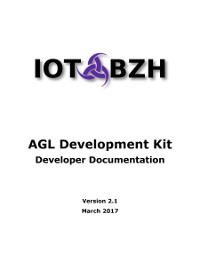
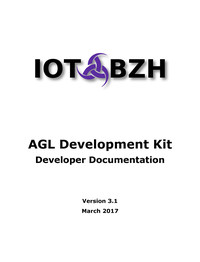
sdk-devkit: review, change version, update intro

diff --git a/sdk-devkit/docs/README.md b/sdk-devkit/docs/README.md
@@ -1,9 +1,14 @@
 # Introduction
 
-AGL Development Kit allows developers to rebuild a complete bootable image
-from source code.
-It uses Yocto/Poky version 2.x with latest version of Renesas BSP and enables
-low-level development of drivers and system services.
+AGL Development Kit allows developers and integrators to rebuild complete bootable images
+from source code, as well as developing new applications for AGL.
+
+It leverages Docker capabilities to propose a unified environment suitable for most development tasks:
+* compatible with AGL 3.x (based on Yocto/Poky 2.x)
+* support all AGL boards inc. reference boards (Renesas, Intel)
+* low-level development of drivers
+* system services development and integration
+* applications development (build, deploy, debug) using AGL SDK and AGL Application Framework
 
 <br>
 <br>

diff --git a/sdk-devkit/docs/0-Doc-Revisions.md b/sdk-devkit/docs/0-Doc-Revisions.md
@@ -9,4 +9,4 @@ Document revisions
 | 29 Feb 2016 |   1.0   | Final Review                         | S. Desneux [ IoT.bzh ]  |
 | 29 Mar 2016 |   1.1   | Public version without proprietary drivers | S. Desneux [ IoT.bzh ] <br> Y. Gicquel [ Iot.bzh ] |
 | 15 Jul 2016 |   2.0   | Update for AGL 2.0, SDK generation <br> & installation added | S. Desneux [ IoT.bzh] <br> M.Bachmann [IoT.bzh] |
-| 20 Mar 2017 |   2.1   | Convert doc sources to markdown      | S. Douheret [ IoT.bzh ] |
+| 20 Mar 2017 |   3.1   | Convert doc sources to markdown <br> Align on AGL Chinook | S. Douheret [ IoT.bzh ] <br> S.Desneux [ IoT.bzh ] |
